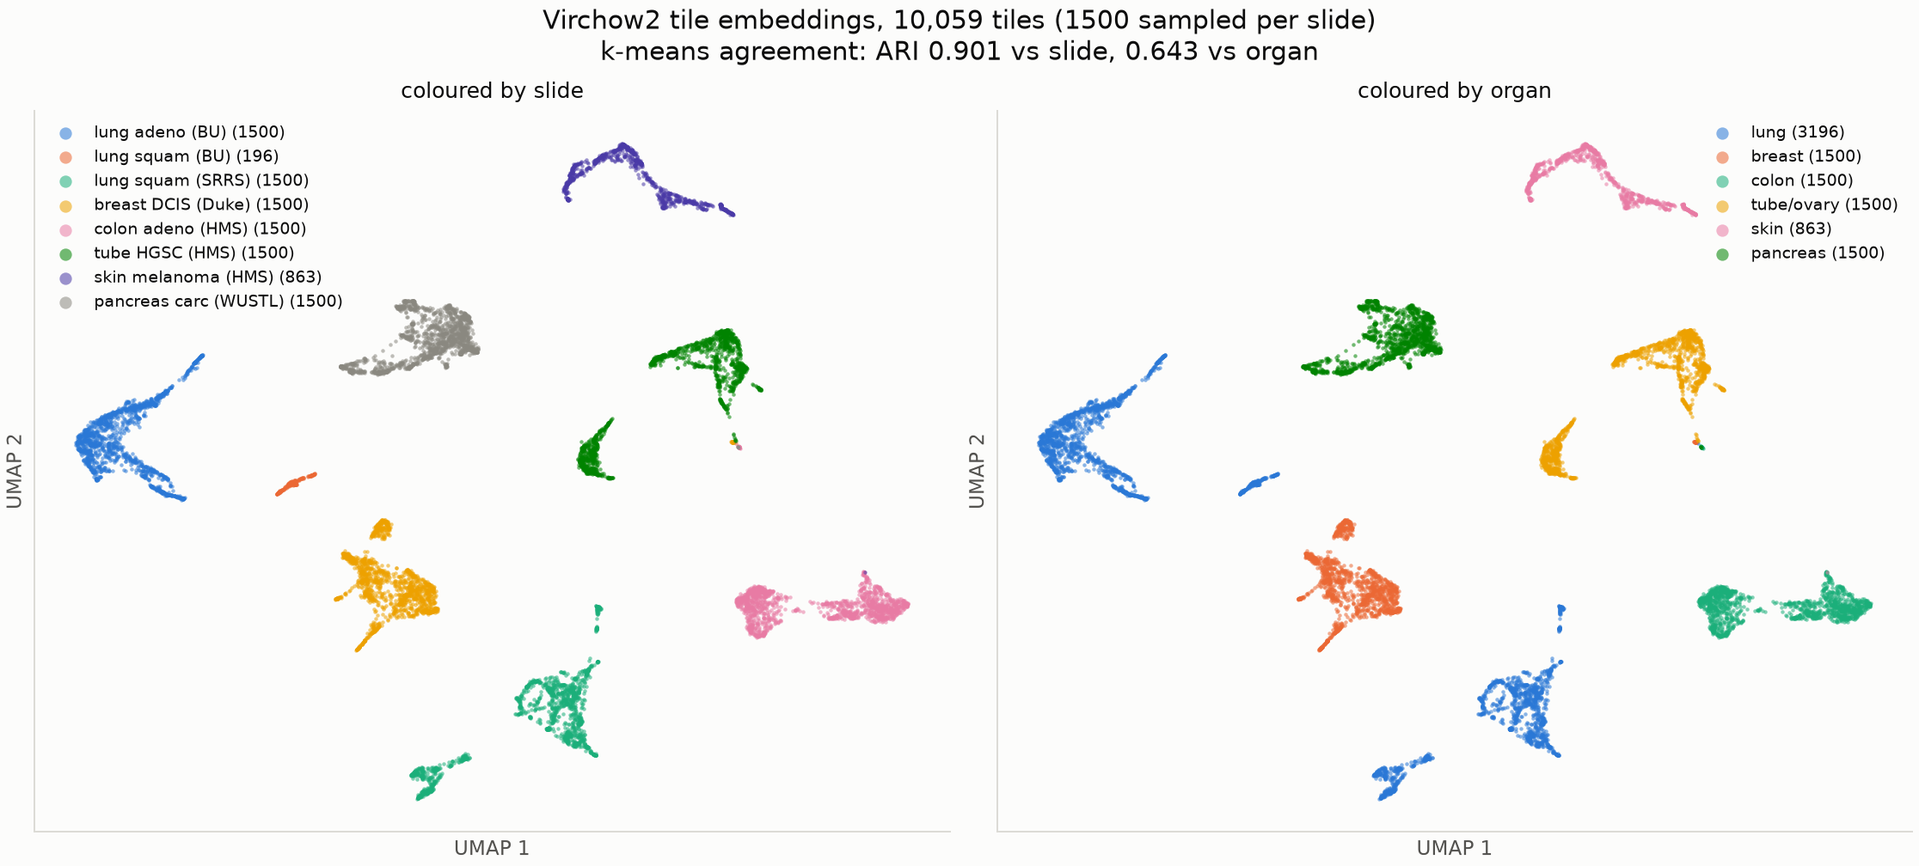
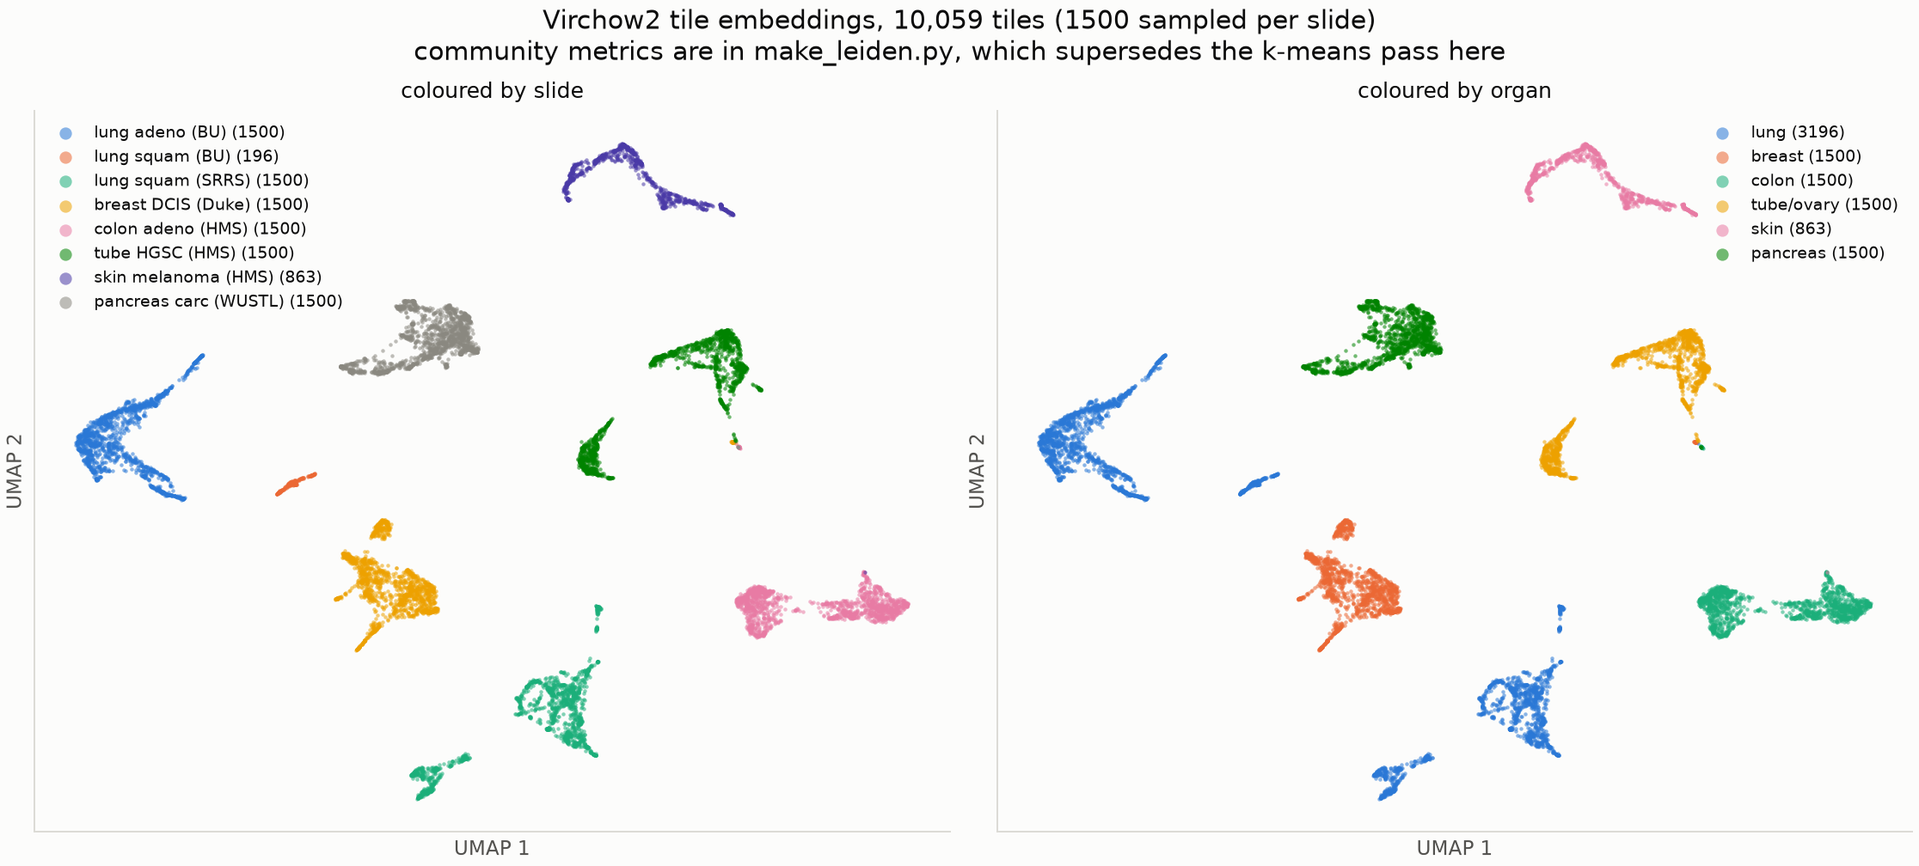
analysis: Leiden instead of k-means, and measure per-slide normalisation
k-means with k fixed to the slide count builds the conclusion into the method, and
Euclidean k-means contradicts the cosine metric used for the projection. Redone with
Leiden on the cosine kNN graph across a resolution sweep: at every resolution 99-100% of
tiles sit in communities where one slide supplies >=90% of members, and raising resolution
subdivides within slides rather than merging across them. The slide separation is real.

Then tested whether per-slide normalisation helps, with mixing (fraction of 30-NN from
another slide, ceiling 0.875) against cross-slide p@10 for lung (chance 0.205, index built
excluding the query's own slide):

  raw L2                 mixing 0.005   p@10 0.410
  per-slide centering    mixing 0.009   p@10 0.357
  per-slide standardise  mixing 0.012   p@10 0.385
  harmony (slide batch)  mixing 0.027   p@10 0.476

Mostly a negative result. Cheap affine corrections do not unlock the space and centering
actively hurts retrieval, because a lung slide's mean is lung-like rather than pure
nuisance. Harmony improves both but leaves mixing 30x below ceiling and is transductive,
so it cannot serve an incrementally growing index without a fixed reference. Excluding
same-slide hits at query time already gives 2x chance and is exact.

Changed region(s): [[0.2164, 0.0308, 0.7728, 0.0923]]

diff --git a/benchmark_results/htan10_20260819/make_normalisation.py b/benchmark_results/htan10_20260819/make_normalisation.py
@@ -1,0 +1,130 @@
+#!/usr/bin/env python3
+"""Does per-slide normalisation make tile embeddings searchable across slides?
+
+Tile embeddings cluster by slide at ARI 0.9, so unconstrained cosine search returns same-slide
+tiles. This compares four treatments on the same 10,059 tiles, with two metrics that pull in
+opposite directions, because a correction that mixes slides by destroying biology is useless:
+
+  mixing   = mean fraction of a tile's 30 nearest neighbours that come from a DIFFERENT slide
+             (higher is better; 7/8 = 0.875 would be the value if slide identity were ignored)
+  p@10     = precision at 10 for SAME ORGAN but DIFFERENT SLIDE, which is the Aim 1.5 search
+             task. Only evaluable on the three lung slides, the one organ with more than one
+             slide here, so it is a narrow test.
+"""
+import json, os
+import h5py, numpy as np
+import matplotlib as mpl
+mpl.use("Agg")
+import matplotlib.pyplot as plt
+from sklearn.decomposition import PCA
+from sklearn.neighbors import NearestNeighbors
+
+SURFACE, INK, INK2 = "#fcfcfb", "#0b0b0b", "#52514e"
+BLUE, ORANGE = "#2a78d6", "#eb6834"
+mpl.rcParams.update({
+    "figure.facecolor": SURFACE, "axes.facecolor": SURFACE, "savefig.facecolor": SURFACE,
+    "text.color": INK, "axes.labelcolor": INK2, "xtick.color": INK2, "ytick.color": INK2,
+    "axes.edgecolor": "#dcdbd6", "axes.linewidth": 0.8, "font.size": 9,
+    "axes.spines.top": False, "axes.spines.right": False})
+HERE = os.path.dirname(os.path.abspath(__file__)); FIG = os.path.join(HERE, "figures")
+FEAT = "/tmp/htan10/features"
+META = {
+    "BU_lung_adenocarcinoma_svs": "lung", "BU_lung_squamous_ndpi": "lung",
+    "SRRS_lung_squamous_svs": "lung", "DUKE_breast_dcis_svs": "breast",
+    "HMS_colorectal_adenocarcinoma_ometiff": "colon", "HMS_ovarian_hgserous_svs": "tube/ovary",
+    "HMS_skin_melanoma_ometiff": "skin", "WUSTL_pancreas_pbcarcinoma_svs": "pancreas"}
+rng = np.random.default_rng(42)
+X, slide = [], []
+for s in META:
+    with h5py.File(os.path.join(FEAT, f"{s}.h5"), "r") as h:
+        key = "features" if "features" in h else [k for k in h if h[k].ndim == 2][0]
+        idx = np.sort(rng.choice(h[key].shape[0], size=min(1500, h[key].shape[0]), replace=False))
+        X.append(np.asarray(h[key][idx], dtype=np.float32))
+    slide += [s] * len(idx)
+X = np.vstack(X).astype(np.float64); slide = np.array(slide)
+organ = np.array([META[s] for s in slide])
+
+def l2(A):
+    return A / np.linalg.norm(A, axis=1, keepdims=True)
+
+def per_slide(A, mode):
+    B = A.copy()
+    for s in set(slide):
+        m = slide == s
+        mu = B[m].mean(0)
+        if mode == "center":
+            B[m] -= mu
+        elif mode == "standardise":
+            sd = B[m].std(0); sd[sd == 0] = 1.0
+            B[m] = (B[m] - mu) / sd
+    return B
+
+treatments = {
+    "raw (L2 only)": l2(X),
+    "per-slide centering": l2(per_slide(X, "center")),
+    "per-slide standardise": l2(per_slide(X, "standardise")),
+}
+try:  # the single-cell standard: soft-cluster batch correction in PCA space
+    import harmonypy
+    P = PCA(n_components=50, random_state=0).fit_transform(l2(X))
+    import pandas as pd
+    ho = harmonypy.run_harmony(P, pd.DataFrame({"slide": slide}), ["slide"], max_iter_harmony=20)
+    Zc = np.asarray(ho.Z_corr)
+    if Zc.shape[0] != X.shape[0]:   # harmonypy versions differ in orientation
+        Zc = Zc.T
+    treatments["harmony (slide as batch)"] = l2(Zc)
+except Exception as e:
+    print("harmony unavailable:", e)
+
+N_NEIGH = 30
+rows = []
+for name, A in treatments.items():
+    Z = PCA(n_components=50, random_state=0).fit_transform(A) if A.shape[1] > 50 else A
+    nn = NearestNeighbors(n_neighbors=N_NEIGH + 1, metric="cosine").fit(Z)
+    _, ind = nn.kneighbors(Z)
+    ind = ind[:, 1:]
+    diff_slide = (slide[ind] != slide[:, None]).mean()
+
+    # Cross-slide retrieval, done the way a search tool would have to: build the index from
+    # every tile EXCEPT the query's own slide, then take the true top 10. Chance is computed
+    # per query from the composition of that query's own candidate pool.
+    hits, chance = [], []
+    for s_q in sorted(set(slide[organ == "lung"])):
+        q = np.where(slide == s_q)[0]
+        pool = np.where(slide != s_q)[0]
+        nn2 = NearestNeighbors(n_neighbors=10, metric="cosine").fit(Z[pool])
+        _, ii = nn2.kneighbors(Z[q])
+        hits.append((organ[pool[ii]] == "lung").mean(axis=1))
+        chance += [ (organ[pool] == "lung").mean() ] * len(q)
+    hits = np.concatenate(hits)
+    rows.append(dict(treatment=name, mixing=round(float(diff_slide), 3),
+                     p_at_10_cross_slide_lung=round(float(hits.mean()), 3),
+                     chance=round(float(np.mean(chance)), 3)))
+    print(rows[-1])
+
+json.dump({"n_tiles": int(X.shape[0]), "n_neighbours": N_NEIGH,
+           "note": "mixing ceiling if slide were ignored = 0.875; p@10 index excludes the query's own slide",
+           "results": rows}, open(os.path.join(HERE, "normalisation_metrics.json"), "w"), indent=2)
+
+fig, axes = plt.subplots(1, 2, figsize=(10.8, 4.3), constrained_layout=True)
+names = [r["treatment"] for r in rows]
+y = np.arange(len(names))
+for ax, (key, title, ref, reflab) in zip(axes, [
+        ("mixing", "Neighbourhood mixing across slides", 0.875, "ceiling if slide ignored (0.875)"),
+        ("p_at_10_cross_slide_lung", "Cross-slide retrieval: p@10 for lung",
+         rows[0]["chance"], f"chance ({rows[0]['chance']:.2f})")]):
+    v = [r[key] for r in rows]
+    ax.barh(y, v, height=0.52, color=BLUE)
+    ax.axvline(ref, color=ORANGE, lw=2, ls="--")
+    ax.annotate(reflab, (ref, len(names) - 0.35), color=ORANGE, fontsize=7.5,
+                ha="right", va="bottom", rotation=90)
+    for i, val in enumerate(v):
+        ax.text(val + 0.012, i, f"{val:.3f}", va="center", fontsize=8.5, color=INK2)
+    ax.set_yticks(y, names, fontsize=8.5)
+    ax.set_xlim(0, 1.0); ax.invert_yaxis()
+    ax.grid(axis="x", color="#ecebe6", lw=0.8); ax.set_axisbelow(True)
+    ax.set_title(title, fontsize=10, color=INK)
+fig.suptitle("Per-slide normalisation of Virchow2 tile embeddings, 10,059 tiles, 30 nearest neighbours",
+             fontsize=11.5, color=INK)
+fig.savefig(os.path.join(FIG, "fig6_normalisation.png"), dpi=200)
+print("wrote fig6")

diff --git a/benchmark_results/htan10_20260819/make_leiden.py b/benchmark_results/htan10_20260819/make_leiden.py
@@ -1,0 +1,109 @@
+#!/usr/bin/env python3
+"""Leiden community detection on the Virchow2 tile embeddings.
+
+Replaces the k-means pass, which was methodologically weak: fixing k to the number of slides
+builds "clusters equal slides" into the result, and Euclidean k-means on PCA space assumes
+isotropic blobs while the projection used cosine. Leiden needs no k, runs on the cosine kNN
+graph, and a resolution sweep shows how the structure behaves rather than asserting one
+partition.
+
+Adds a direct measure of the batch concern: what fraction of communities are dominated by a
+single slide, and what fraction of tiles sit in those communities.
+"""
+import json, os
+import h5py, numpy as np, scanpy as sc, anndata as ad
+import matplotlib as mpl
+mpl.use("Agg")
+import matplotlib.pyplot as plt
+from sklearn.metrics import adjusted_rand_score, normalized_mutual_info_score
+
+SURFACE, INK, INK2 = "#fcfcfb", "#0b0b0b", "#52514e"
+BLUE, ORANGE = "#2a78d6", "#eb6834"
+mpl.rcParams.update({
+    "figure.facecolor": SURFACE, "axes.facecolor": SURFACE, "savefig.facecolor": SURFACE,
+    "text.color": INK, "axes.labelcolor": INK2, "xtick.color": INK2, "ytick.color": INK2,
+    "axes.edgecolor": "#dcdbd6", "axes.linewidth": 0.8, "font.size": 9,
+    "axes.spines.top": False, "axes.spines.right": False,
+})
+HERE = os.path.dirname(os.path.abspath(__file__)); FIG = os.path.join(HERE, "figures")
+FEAT = "/tmp/htan10/features"
+META = {
+    "BU_lung_adenocarcinoma_svs": ("lung adeno (BU)", "lung"),
+    "BU_lung_squamous_ndpi": ("lung squam (BU)", "lung"),
+    "SRRS_lung_squamous_svs": ("lung squam (SRRS)", "lung"),
+    "DUKE_breast_dcis_svs": ("breast DCIS (Duke)", "breast"),
+    "HMS_colorectal_adenocarcinoma_ometiff": ("colon adeno (HMS)", "colon"),
+    "HMS_ovarian_hgserous_svs": ("tube HGSC (HMS)", "tube/ovary"),
+    "HMS_skin_melanoma_ometiff": ("skin melanoma (HMS)", "skin"),
+    "WUSTL_pancreas_pbcarcinoma_svs": ("pancreas carc (WUSTL)", "pancreas"),
+}
+PER_SLIDE = 1500
+rng = np.random.default_rng(42)
+X, slide = [], []
+for s in META:
+    with h5py.File(os.path.join(FEAT, f"{s}.h5"), "r") as h:
+        key = "features" if "features" in h else [k for k in h if h[k].ndim == 2][0]
+        idx = np.sort(rng.choice(h[key].shape[0], size=min(PER_SLIDE, h[key].shape[0]), replace=False))
+        X.append(np.asarray(h[key][idx], dtype=np.float32))
+    slide += [s] * len(idx)
+X = np.vstack(X); slide = np.array(slide)
+organ = np.array([META[s][1] for s in slide])
+
+a = ad.AnnData(X)
+a.obs["slide"] = slide; a.obs["organ"] = organ
+sc.pp.pca(a, n_comps=50, random_state=0)
+# cosine kNN graph, the same metric the UMAP projection uses
+sc.pp.neighbors(a, n_neighbors=30, metric="cosine", use_rep="X_pca", random_state=0)
+
+rows = []
+for r in [0.1, 0.25, 0.5, 1.0, 2.0]:
+    sc.tl.leiden(a, resolution=r, key_added=f"l{r}", flavor="igraph", n_iterations=2,
+                 directed=False, random_state=0)
+    cl = a.obs[f"l{r}"].to_numpy()
+    k = len(set(cl))
+    # a community is "slide-dominated" when one slide supplies >=90% of its tiles
+    dom, dom_tiles = 0, 0
+    for c in set(cl):
+        m = cl == c
+        top = max((slide[m] == s).sum() for s in set(slide[m])) / m.sum()
+        if top >= 0.90:
+            dom += 1; dom_tiles += m.sum()
+    rows.append(dict(resolution=r, n_clusters=int(k),
+                     ari_slide=round(float(adjusted_rand_score(slide, cl)), 3),
+                     ari_organ=round(float(adjusted_rand_score(organ, cl)), 3),
+                     nmi_slide=round(float(normalized_mutual_info_score(slide, cl)), 3),
+                     nmi_organ=round(float(normalized_mutual_info_score(organ, cl)), 3),
+                     slide_dominated_clusters=f"{dom}/{k}",
+                     pct_tiles_in_slide_dominated=round(100 * dom_tiles / len(cl), 1)))
+    print(rows[-1])
+json.dump({"n_tiles": int(X.shape[0]), "per_slide": PER_SLIDE, "method": "leiden on cosine kNN (k=30) over PCA-50",
+           "sweep": rows}, open(os.path.join(HERE, "tile_clustering_metrics.json"), "w"), indent=2)
+
+# ---- figure: resolution sweep, two panels (no dual axis) ----
+fig, axes = plt.subplots(1, 2, figsize=(10.6, 4.2), constrained_layout=True)
+res = [r["resolution"] for r in rows]
+ax = axes[0]
+ax.plot(res, [r["ari_slide"] for r in rows], "-o", color=BLUE, lw=2, ms=8, label="vs slide")
+ax.plot(res, [r["ari_organ"] for r in rows], "-s", color=ORANGE, lw=2, ms=7.5, label="vs organ")
+for r in rows:
+    ax.annotate(f"{r['n_clusters']}", (r["resolution"], r["ari_slide"]), textcoords="offset points",
+                xytext=(0, 9), ha="center", fontsize=7.5, color=INK2)
+ax.set_xscale("log"); ax.set_xticks(res, [str(x) for x in res])
+ax.set_xlabel("Leiden resolution  (label = number of communities)")
+ax.set_ylabel("adjusted Rand index"); ax.set_ylim(0, 1)
+ax.grid(axis="y", color="#ecebe6", lw=0.8); ax.set_axisbelow(True)
+ax.legend(frameon=False, fontsize=8.5)
+ax.set_title("Community agreement with known labels", fontsize=10, color=INK)
+
+ax = axes[1]
+ax.plot(res, [r["pct_tiles_in_slide_dominated"] for r in rows], "-o", color=BLUE, lw=2, ms=8)
+ax.set_xscale("log"); ax.set_xticks(res, [str(x) for x in res])
+ax.set_xlabel("Leiden resolution")
+ax.set_ylabel("% of tiles in a single-slide community"); ax.set_ylim(0, 105)
+ax.grid(axis="y", color="#ecebe6", lw=0.8); ax.set_axisbelow(True)
+ax.set_title("Slide dominance: communities where one slide\nsupplies at least 90% of tiles",
+             fontsize=10, color=INK)
+fig.suptitle("Leiden on Virchow2 tile embeddings, 10,059 tiles, cosine kNN graph",
+             fontsize=12, color=INK)
+fig.savefig(os.path.join(FIG, "fig5_leiden_sweep.png"), dpi=200)
+print("wrote fig5")

diff --git a/benchmark_results/htan10_20260819/make_tile_figures.py b/benchmark_results/htan10_20260819/make_tile_figures.py
@@ -99,7 +99,7 @@ for ax, (lab, title, keys) in zip(axes, [
     ax.set_xlabel("UMAP 1"); ax.set_ylabel("UMAP 2")
     leg = ax.legend(frameon=False, fontsize=7.5, markerscale=3.2, loc="best")
 fig.suptitle(f"Virchow2 tile embeddings, {X.shape[0]:,} tiles ({PER_SLIDE} sampled per slide)\n"
-             f"k-means agreement: ARI {res['slide']['ari']} vs slide, {res['organ']['ari']} vs organ",
+             "community metrics are in make_leiden.py, which supersedes the k-means pass here",
              fontsize=12, color=INK)
 fig.savefig(os.path.join(FIG, "fig4_tile_umap.png"), dpi=180)
 print("wrote fig4")

diff --git a/benchmark_results/htan10_20260819/ANALYSIS.md b/benchmark_results/htan10_20260819/ANALYSIS.md
@@ -163,37 +163,90 @@ differences that cosine distance washes out, and that is worth testing separatel
 
 ![tile umap](figures/fig4_tile_umap.png)
 
-10,059 tiles, 1,500 sampled per slide so a 58,000-tile slide cannot dominate the projection.
-PCA to 50 components, then UMAP on cosine distance. k-means agreement with the labels, using the
-metrics Epic 4 names:
+10,059 tiles, 1,500 sampled per slide so a 58,000-tile slide cannot dominate. PCA to 50
+components, then UMAP on cosine distance. Every slide forms its own island, and the three lung
+slides sit in three separate, distant regions rather than merging.
 
-| Partition | k | Adjusted Rand | macro F1 | macro Jaccard |
-|---|---|---|---|---|
-| by slide | 8 | **0.901** | 0.831 | 0.799 |
-| by organ | 6 | 0.643 | 0.862 | 0.798 |
+Communities were found with **Leiden on the cosine kNN graph (k=30)**, not k-means. An earlier
+pass used k-means with k fixed to the number of slides, which is a weak test: it builds
+"clusters equal slides" into the method, and Euclidean k-means assumes isotropic blobs while the
+projection uses cosine. Leiden needs no k, so a resolution sweep shows whether slide separation
+is real or an artefact of that choice.
 
-Every slide forms its own island, and the three lung slides sit in three separate, distant
-regions rather than merging. So **at tile level, slide identity is a stronger signal than organ
-identity**, which is the opposite of what the slide-level embedding showed in section 7.
+![leiden sweep](figures/fig5_leiden_sweep.png)
 
-This is coherent rather than contradictory. PRISM2's Perceiver aggregates thousands of tiles into
-one vector and in doing so abstracts away slide-specific texture, leaving morphology. Raw Virchow2
-tile embeddings retain that texture, which includes stain, scanner and section-preparation
-signature.
+| Resolution | Communities | ARI vs slide | ARI vs organ | NMI vs slide | Communities where one slide supplies >=90% | % of tiles in those |
+|---|---|---|---|---|---|---|
+| 0.1 | 10 | 0.912 | 0.719 | 0.945 | **10/10** | **100.0** |
+| 0.25 | 14 | 0.842 | 0.655 | 0.912 | 13/14 | 99.5 |
+| 0.5 | 19 | 0.666 | 0.500 | 0.843 | 18/19 | 99.5 |
+| 1.0 | 26 | 0.514 | 0.375 | 0.784 | 25/26 | 99.0 |
+| 2.0 | 39 | 0.389 | 0.278 | 0.731 | **38/39** | **99.5** |
 
-Two caveats on how far this can be pushed. Slide and organ are largely confounded here, because
-only lung has more than one slide. And the three lung slides differ in centre, scanner, container
-format, specimen type (one is a small core, one a resection) and diagnosis all at once, so the
-separation cannot be attributed to stain batch alone from this design.
+The result is not an artefact of choosing k. At every resolution, 99 to 100 percent of tiles sit
+in communities dominated by a single slide, and raising the resolution subdivides *within* slides
+rather than merging *across* them. ARI against slide falls at high resolution only because the
+partition becomes finer than the label, which is why the slide-dominance column matters more than
+ARI here.
 
-**The consequence for Aim 1.5 is concrete and testable.** Nearest neighbours of a query tile will
-preferentially come from the same slide. An image search tool built on raw tile embeddings will
-tend to return "more of the slide you just queried" rather than morphologically similar regions
-from other patients, which is precisely the failure the rank-stability and cross-centre tests in
-`BENCHMARK_PLAN.md` exist to catch. Practical options: exclude same-slide hits at query time,
-normalise per slide before indexing, or search the aggregated slide space and drill down. This
-should be measured on the designed contrast set, where the same tissue type appears across
-centres, before the search tool is built on top.
+So at tile level, slide identity is a stronger signal than organ identity, the opposite of the
+slide-level result in section 7. That is coherent: PRISM2's Perceiver aggregates thousands of
+tiles and abstracts away slide-specific texture, while raw Virchow2 embeddings retain stain,
+scanner and section-preparation signature.
+
+Two limits on how far this can be pushed. Slide and organ are largely confounded, since only lung
+has more than one slide. And the three lung slides differ in centre, scanner, container format,
+specimen type (one is a small core, one a resection) and diagnosis all at once, so stain batch
+cannot be isolated from genuine morphological difference with this design.
+
+## 7c. Does per-slide normalisation fix it?
+
+Three treatments were compared against the raw space, on the same 10,059 tiles. Two metrics that
+pull in opposite directions, because a correction that mixes slides by destroying biology is
+worthless:
+
+* **mixing** = mean fraction of a tile's 30 nearest neighbours coming from a different slide.
+  The ceiling, if slide identity were ignored entirely, is 0.875 (7 of 8 slides).
+* **p@10 cross-slide** = precision at 10 for same organ, with the index built from every tile
+  *except the query's own slide*, which is how a search tool would have to do it. Evaluable only
+  on the three lung slides. Chance is 0.205, computed per query from its own candidate pool.
+
+![normalisation](figures/fig6_normalisation.png)
+
+| Treatment | mixing (ceiling 0.875) | p@10 cross-slide lung (chance 0.205) |
+|---|---|---|
+| raw, L2 only | 0.005 | 0.410 |
+| per-slide centering | 0.009 | 0.357 |
+| per-slide standardise (z-score per dimension) | 0.012 | 0.385 |
+| Harmony, slide as batch | **0.027** | **0.476** |
+
+What this says, and it is mostly a negative result:
+
+1. **The raw space is almost perfectly slide-locked.** Half a percent of nearest neighbours come
+   from another slide, against a ceiling of 87.5 percent. Nearest-neighbour search over raw tile
+   embeddings is, in practice, a same-slide search.
+2. **Cheap per-slide affine corrections do not fix it and make retrieval worse.** Centering moves
+   mixing from 0.005 to 0.009, which is nothing, and drops cross-slide precision from 0.410 to
+   0.357. Subtracting the slide mean removes real signal, which makes sense: the mean of a lung
+   slide is lung-like, so it is not pure nuisance.
+3. **Harmony is the only treatment that improves both**, roughly five times the mixing and p@10
+   from 0.410 to 0.476. But mixing is still 30 times below the ceiling, so it does not make the
+   space slide-agnostic either. It is also transductive: it fits on the whole set at once, so it
+   cannot be applied to an incrementally growing index without refitting or a fixed reference
+   projection. That is a real constraint for a BigQuery vector table that gains slides over time.
+4. **Excluding same-slide hits at query time already gets 2x chance with no correction at all**
+   (0.410 against 0.205). It is the cheapest effective fix and it is exact rather than
+   approximate.
+
+**Recommendation for Aim 1.5.** Do not normalise embeddings as the first move. Exclude same-slide
+(and ideally same-patient) hits at query time, and treat any embedding-space correction as an
+experiment to be measured on the contrast set, where the same tissue type appears across several
+centres, rather than assumed to help. If a correction is wanted later, Harmony-style batch
+correction with a fixed reference is the candidate, and stain normalisation applied to the images
+before embedding is the untested alternative that avoids the transductive problem entirely.
+
+Caveats: one organ with more than one slide, 10,059 tiles, and a single tile encoder. This is a
+direction-setting measurement, not a settled result.
 
 ## 8. Generated text is not trustworthy on its own
 
@@ -226,8 +279,9 @@ All three need a pathologist. They are the kind of thing the Epic 7 validation l
 5. **Fix slide-pass staging** before any cohort run. 1380 to 1918 s per slide for 30 s of compute
    makes the current per-slide cost transfer-bound.
 6. **Treat BigQuery pixel dimensions as a lower bound** when planning tile counts and cost.
-7. **Do not build tile-level cosine search without a same-slide control.** Tile embeddings cluster
-   by slide at ARI 0.90, so unconstrained nearest-neighbour search will return same-slide tiles.
+7. **Do not build tile-level cosine search without a same-slide control.** Only 0.5 percent of a
+   tile's nearest neighbours come from another slide. Excluding same-slide hits at query time
+   gives 2x chance precision immediately, whereas per-slide centering makes retrieval worse.
 8. **Publish tile embeddings.** Aim 1.4 promises them in BigQuery, and the pipeline currently
    keeps them only in the work directory. Added as `--publish_tile_features`, off by default
    because it is about 630 MB per 10 slides, so roughly 137 GB across the full collection.
@@ -241,5 +295,8 @@ All three need a pathologist. They are the kind of thing the Epic 7 validation l
 | `embeddings/*.npz` | base (2560-d) and diagnostic (3072-d) per slide |
 | `figures/` | the three figures above |
 | `make_figures.py` | regenerates figures 1 to 3; palette validated with the dataviz validator |
-| `make_tile_figures.py` | tile-level UMAP and cluster purity (figure 4) |
-| `tile_clustering_metrics.json` | the ARI, F1 and Jaccard numbers above |
+| `make_tile_figures.py` | tile-level UMAP (figure 4) |
+| `make_leiden.py` | Leiden resolution sweep and slide-dominance (figure 5) |
+| `make_normalisation.py` | per-slide normalisation comparison (figure 6) |
+| `tile_clustering_metrics.json` | the Leiden sweep numbers |
+| `normalisation_metrics.json` | the mixing and p@10 numbers |
